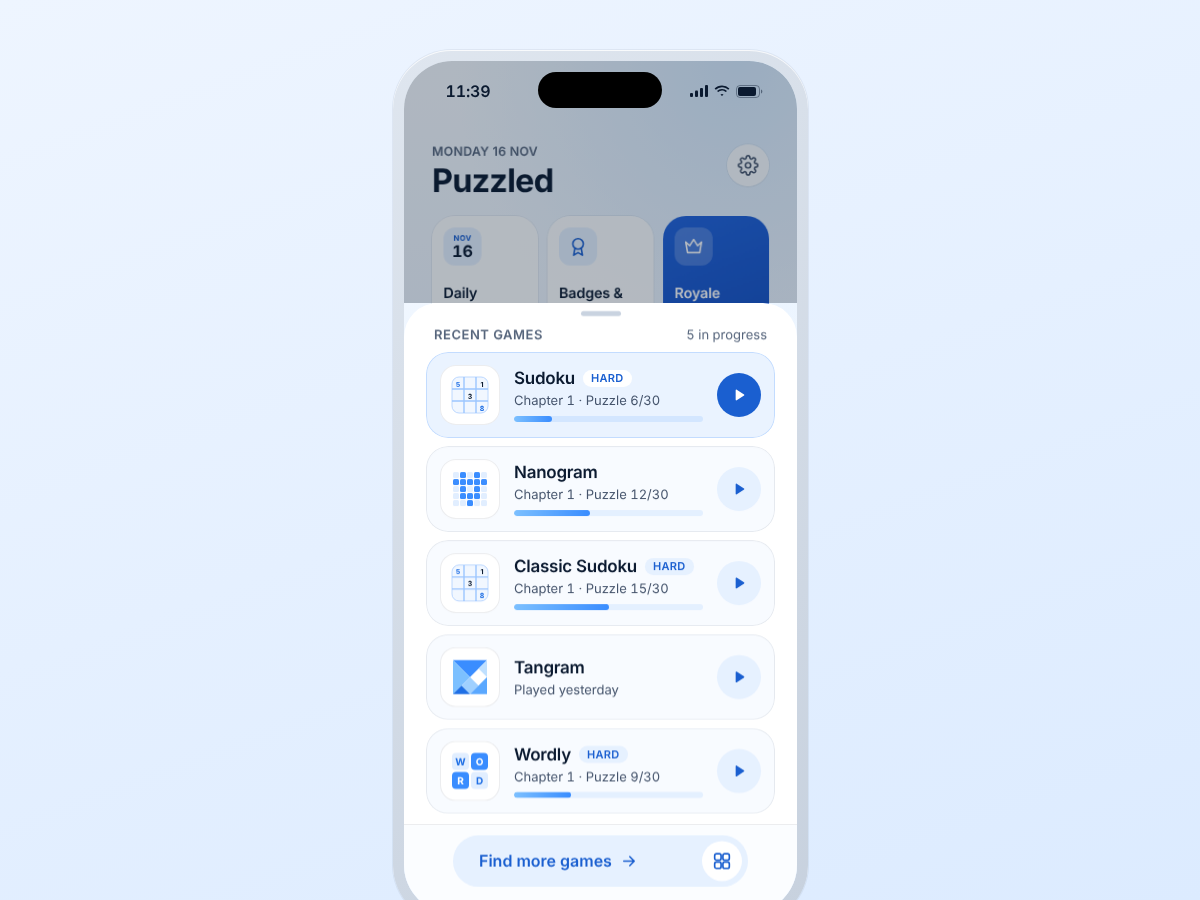
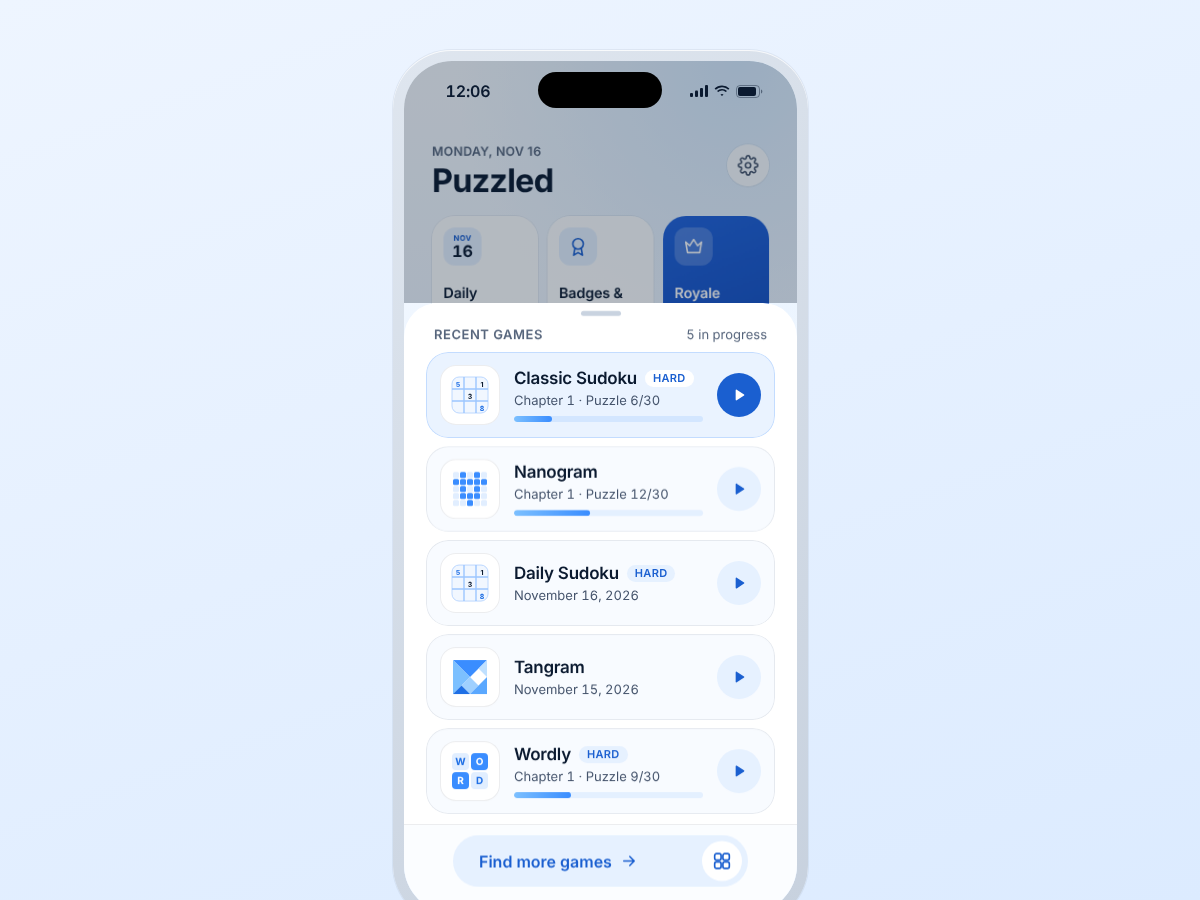
Next Games: close the gaps between the file, the prototype and the case
Prototype
- One naming scheme. The list had "Sudoku" and "Classic Sudoku" on the
  same chapter at two different puzzles; it is now Classic Sudoku and
  Daily Sudoku, as the file's card states name them.
- Dated rows show a date, as drawn, and every date follows today's in
  one format; the header no longer disagrees with the rows.
- The empty state from the file: with nothing in progress the card
  stays and reads "No games in progress yet", instead of leaving Home.

Case
- The Home figure gains the no-games card, so it runs 0, 1, 2, 4, 5.
- A new figure shows the card as drawn on game preselection, the puzzle
  end screen and the grouped Home list, which the case had left out.
- The flow's Back labels read as a direction.
- The case's cards use the prototype's artwork.

Site
- The sample-content notice and the project notes no longer say every
  project is a placeholder, now that Next Games is real.
- DESIGN.md records how a case study with figures is laid out.

Claude-Session: https://claude.ai/code/session_01XFxHD8w4HQtLUnRGHytL8t

diff --git a/public/prototypes/next-games/index.html b/public/prototypes/next-games/index.html
@@ -390,6 +390,29 @@
   .play:active, .play.tap { transform: scale(.88); }
   .row.hero .play { background: var(--blue-deep); color: #fff; }
 
+  /* Nothing in progress: the card stays and says so */
+  .none-yet {
+    position: absolute;
+    left: 22px; right: 22px;
+    height: 86px;
+    display: grid;
+    grid-template-columns: minmax(0, 1fr) 44px;
+    align-items: center;
+    gap: 14px;
+    padding: 0 14px 0 18px;
+    border-radius: 22px;
+    background-color: #f8fbff;
+    box-shadow: 0 0 0 1px var(--hairline) inset;
+    text-align: left;
+  }
+  .none-yet[hidden] { display: none; }
+  .none-yet:focus-visible { border-radius: 22px; }
+  .none-text { display: grid; gap: 4px; }
+  .none-text b { font: 600 17px/1.2 var(--font-display); letter-spacing: -0.015em; }
+  .none-text span { font: 600 13px/1.25 var(--font); color: var(--blue-deep); }
+  .none-go { width: 44px; height: 44px; border-radius: 50%; display: grid; place-items: center; background: var(--blue-soft); color: var(--blue-deep); transition: transform 200ms var(--ease-out); }
+  .none-yet:active .none-go { transform: scale(.88); }
+
   /* ---------- Tab bar ---------- */
   .tabbar {
     position: absolute; left: 0; right: 0; bottom: 0;
@@ -534,7 +557,7 @@
           <div class="home-content" id="homeContent">
             <div class="top">
               <div>
-                <p class="greet-date" id="today">Monday 16 Nov</p>
+                <p class="greet-date" id="today">Monday, Nov 16</p>
                 <p class="greet-title">Puzzled</p>
               </div>
               <button class="round-btn" type="button" aria-label="Settings">
@@ -585,6 +608,10 @@
             </div>
           </div>
           <div class="list" id="list" role="list"></div>
+          <button class="none-yet" id="noneYet" type="button" hidden>
+            <span class="none-text"><b>No games in progress yet</b><span>Find more games</span></span>
+            <span class="none-go" aria-hidden="true"><svg width="18" height="18" viewBox="0 0 24 24" fill="none" stroke="currentColor" stroke-width="2" stroke-linecap="round" stroke-linejoin="round"><path d="M5 12h14M13 6l6 6-6 6"/></svg></span>
+          </button>
         </section>
 
         <nav class="tabbar" id="tabbar" aria-label="Tabs">
@@ -653,20 +680,24 @@
   const $ = (s) => document.querySelector(s);
   const screen = $('#screen'), homeContent = $('#homeContent'), sheet = $('#sheet'), list = $('#list'),
         dim = $('#dim'), grab = $('#grab'), more = $('#more'), count = $('#count'), tabbar = $('#tabbar'), tabs = $('#tabs'),
-        titleClosed = $('#titleClosed'), titleOpen = $('#titleOpen'), island = $('#island');
+        titleClosed = $('#titleClosed'), titleOpen = $('#titleOpen'), island = $('#island'), noneYet = $('#noneYet');
   const clamp = (v, a = 0, b = 1) => Math.min(Math.max(v, a), b);
   const sleep = (ms) => new Promise((r) => setTimeout(r, reduce ? 0 : ms));
 
   // ---------- Data ----------
+  // As in the design file: chapter games show their puzzle and a chapter meter; the daily
+  // puzzle and a game with no chapter show a date. Dates follow today's, like the header.
+  const today = new Date();
+  const longDate = (d) => d.toLocaleDateString('en-US', { month: 'long', day: 'numeric', year: 'numeric' });
   const ALL = [
-    { id: 'sudoku', name: 'Sudoku', level: 'Hard', chapter: 1, puzzle: 6, of: 30, art: 'sudoku' },
+    { id: 'sudoku', name: 'Classic Sudoku', level: 'Hard', chapter: 1, puzzle: 6, of: 30, art: 'sudoku' },
     { id: 'nanogram', name: 'Nanogram', chapter: 1, puzzle: 12, of: 30, art: 'nano' },
-    { id: 'sudoku-classic', name: 'Classic Sudoku', level: 'Hard', chapter: 1, puzzle: 15, of: 30, art: 'sudoku' },
-    { id: 'tangram', name: 'Tangram', played: 'Yesterday', art: 'tangram' },
+    { id: 'sudoku-daily', name: 'Daily Sudoku', level: 'Hard', date: longDate(today), art: 'sudoku' },
+    { id: 'tangram', name: 'Tangram', date: longDate(new Date(today.getTime() - 864e5)), art: 'tangram' },
     { id: 'wordly', name: 'Wordly', level: 'Hard', chapter: 1, puzzle: 9, of: 30, art: 'word' },
   ];
   const hintFor = (n) =>
-    n === 0 ? 'Nothing in progress: the card leaves Home. Reset to bring the games back.'
+    n === 0 ? 'Nothing in progress: the card stays and says so, with a way to find more games.'
     : n === 1 ? 'One game: a single continue card. No handle, nothing to expand.'
     : n === 2 ? 'Two games: the sheet opens just tall enough for both, and the tab bar becomes Find more games.'
     : `${n === 5 ? 'All five' : n === 4 ? 'Four' : 'Three'} games: the sheet grows with the list and Home steps back behind it. Swipe a game left to remove it.`;
@@ -678,9 +709,8 @@
     word: `<svg width="38" height="38" viewBox="0 0 38 38" aria-hidden="true">${['W','O','R','D'].map((l, i) => `<rect x="${1 + (i%2)*19}" y="${1 + ((i/2)|0)*19}" width="17" height="17" rx="4" fill="${i===1||i===2 ? '#3a8dff' : '#e1eeff'}"/><text x="${9.5 + (i%2)*19}" y="${13.5 + ((i/2)|0)*19}" font-size="10" font-weight="700" text-anchor="middle" fill="${i===1||i===2 ? '#fff' : '#1f6fe5'}" font-family="-apple-system,Inter,sans-serif">${l}</text>`).join('')}</svg>`,
   };
 
-  $('#shelf').innerHTML = ['sudoku', 'nanogram', 'tangram', 'wordly']
-    .map((id) => ALL.find((g) => g.id === id))
-    .map((g) => `<button class="game" type="button"><span class="game-art">${art[g.art]}</span>${g.name}</button>`)
+  $('#shelf').innerHTML = [['Sudoku', 'sudoku'], ['Nanogram', 'nano'], ['Tangram', 'tangram'], ['Wordly', 'word']]
+    .map(([name, a]) => `<button class="game" type="button"><span class="game-art">${art[a]}</span>${name}</button>`)
     .join('');
 
   // ---------- Fit the device to its viewport ----------
@@ -727,13 +757,16 @@
   // Sizes are measured once per layout and the row list once per change, so a frame of
   // animation only writes styles and never forces layout.
   let M = { H: 0, grab: 0, tab: 0 }, rowCache = null;
-  const measure = () => { M = { H: sheet.offsetHeight, grab: grab.offsetHeight, tab: tabbar.offsetHeight }; };
+  const measure = () => {
+    M = { H: sheet.offsetHeight, grab: grab.offsetHeight, tab: tabbar.offsetHeight };
+    noneYet.style.top = M.grab + 'px';
+  };
   const rows = () => rowCache || (rowCache = [...list.querySelectorAll('.row:not(.gone)')]);
   const H = () => M.H;
   const TAB = () => M.tab;
   const cardH = () => M.grab + ROW + PAD;                 // the resting card: header and one game
   const restY = () => H() - (cardH() + LIFT + TAB());
-  const collapsedY = () => (games.length ? restY() : H());
+  const collapsedY = () => restY(); // with no games the card stays, showing its empty state
   const expandedY = () => {
     const n = games.length;
     if (n <= 1) return collapsedY();
@@ -801,7 +834,7 @@
   // ---------- Rows ----------
   function rowHTML(g) {
     const pct = g.of ? Math.round((g.puzzle / g.of) * 100) : 0;
-    const sub = g.of ? `Chapter ${g.chapter} · Puzzle ${g.puzzle}/${g.of}` : `Played ${g.played.toLowerCase()}`;
+    const sub = g.of ? `Chapter ${g.chapter} · Puzzle ${g.puzzle}/${g.of}` : g.date;
     return `
       <div class="row" role="listitem" data-id="${g.id}">
         <div class="card">
@@ -826,23 +859,27 @@
     const n = games.length;
     rows().forEach((r, i) => r.classList.toggle('hero', i === 0));
     sheet.classList.toggle('single', n <= 1);
-    grab.setAttribute('aria-label', n > 1 ? 'Show all recent games' : 'Continue playing');
+    grab.setAttribute('aria-label', n > 1 ? 'Show all recent games' : n ? 'Continue playing' : 'Recent games');
+    titleClosed.textContent = n ? 'Continue playing' : 'Recent games';
     if (n > 1) count.textContent = `${n} in progress`; // left as it was while it fades out
     $('#hint').textContent = hintFor(n);
   }
 
-  let buildId = 0;
+  let buildId = 0, built = false;
   // Swap in a fresh list: the old sheet drops away, the new one rises.
   async function build(n) {
     const id = ++buildId;
-    if (list.childElementCount && y < H()) {
+    if (built && y < H()) {
       stop();
       expanded = false;
       dim.classList.remove('live');
       await new Promise((res) => { stop = spring(y, H(), 0, render, res, 520, 44); });
       if (id !== buildId) return;
     }
+    built = true;
     games = ALL.slice(0, n);
+    noneYet.hidden = n > 0;
+    noneYet.style.opacity = '';
     list.innerHTML = games.map(rowHTML).join('');
     rowCache = null;
     measure();
@@ -893,13 +930,20 @@
       card.style.transition = 'transform 300ms cubic-bezier(.4, 0, .9, .5)';
       card.style.transform = 'translate3d(-110%, 0, 0)';
     }
+    // The last game does not close up: the empty card fades in where it was
+    const last = games.length === 0;
+    if (last) { noneYet.hidden = false; noneYet.style.opacity = '0'; }
     let done = false;
     settle(expanded, 0, (u) => {
-      row.style.height = `${h0 * (1 - u)}px`;
-      row.style.marginBottom = `${GAP * (1 - u)}px`;
+      if (last) noneYet.style.opacity = clamp((u - 0.25) / 0.6);
+      else {
+        row.style.height = `${h0 * (1 - u)}px`;
+        row.style.marginBottom = `${GAP * (1 - u)}px`;
+      }
       row.style.opacity = o0 * clamp(1 - u * 1.6);
       done = u === 1;
     }).then(() => {
+      if (last) noneYet.style.opacity = '';
       if (done || reduce) return row.remove();
       // Interrupted part-way (another drag or removal): close what is left quickly
       row.style.transition = 'height 160ms ease-out, margin 160ms ease-out, opacity 120ms';
@@ -913,7 +957,7 @@
   // A vertical drag moves the sheet; a horizontal drag on a game swipes it.
   let g = null;
   sheet.addEventListener('pointerdown', (e) => {
-    if (e.button || e.target.closest('.play, .delete, .more')) return;
+    if (e.button || e.target.closest('.play, .delete, .none-yet')) return;
     g = { id: e.pointerId, x0: e.clientX, y0: e.clientY, s0: y, lock: null, v: 0, t: performance.now(), last: e.clientY,
           row: e.target.closest('.row'), grab: !!e.target.closest('.grab') };
     if (g.row) g.base = g.row._dx;
@@ -1033,10 +1077,9 @@
   $('#reset').addEventListener('click', () => pick(5));
 
   // ---------- Live details ----------
-  const now = new Date();
-  $('#today').textContent = now.toLocaleDateString('en-GB', { weekday: 'long', day: 'numeric', month: 'short' });
-  $('#calMonth').textContent = now.toLocaleDateString('en-GB', { month: 'short' });
-  $('#calDay').textContent = now.getDate();
+  $('#today').textContent = today.toLocaleDateString('en-US', { weekday: 'long', month: 'short', day: 'numeric' });
+  $('#calMonth').textContent = today.toLocaleDateString('en-US', { month: 'short' });
+  $('#calDay').textContent = today.getDate();
   const eventEnd = Date.now() + ((9 * 24 + 7) * 60 + 12) * 60000;
   const tick = () => {
     const m = Math.max(0, Math.floor((eventEnd - Date.now()) / 60000));

diff --git a/src/data/projects.ts b/src/data/projects.ts
@@ -1,8 +1,9 @@
 /**
  * Every project on the site comes from this list.
  *
- * ALL ENTRIES BELOW ARE SAMPLE CONTENT. Titles, clients, years and text are
- * invented placeholders that show how the layout behaves with ~30 projects.
+ * Next Games is a real project. EVERY OTHER ENTRY IS SAMPLE CONTENT: titles,
+ * clients, years and text are invented placeholders that show how the layout
+ * behaves with ~30 projects.
  * Replace them with your own work, then set `showSampleNotice` to false in
  * src/data/site.ts.
  *

diff --git a/DESIGN.md b/DESIGN.md
@@ -199,6 +199,7 @@ A centred container (max 1320px) with a fluid gutter of clamp(16px, 4vw, 56px). 
 - **Work index:** 4 columns, stepping to 3 under 1180px and 2 under 860px. Two full rows sit above the fold at 1440x900. Under 560px tiles tighten (5px inset, 20px radius) and the filter chips become a single horizontally scrolling row that bleeds to the screen edge.
 - **Home featured grid:** 12-column; the two newest projects span 6, the rest span 4, and a dark "view all" tile spans 8, holding a 6-column contact sheet of thumbnails and the total count.
 - **Case study:** a 1.7fr / 1fr intro (headline left, facts list right), a full-width 16:9 hero, story sections in a 1fr / 2fr label-and-text split, a 2-column gallery, a 2-column previous/next pager and a 3-column related row; all collapse to one column on small screens.
+- **Case study with figures (Next Games):** each section keeps the 1fr / 2fr head (title left, text right) and follows it with full-width figures. A figure is a white tile (28px, 8px inset) holding a 20px frame in the project's own colour; project UI and its colours stay inside that frame, and the chrome around it (captions, rules, status marks, the flow diagram) stays neutral. Lists that are not imagery (stories, drivers, questions) are hairline-ruled rows, not tiles. Figures animate only while on screen, on the one ease-out curve, and hold a complete state under reduced motion.
 - **Vertical rhythm:** sections are separated by clamp(96px, 11vw, 152px); the contact block and footer get slightly more (up to 176px and 160px).
 - **Header:** sticky, 72px tall (64px under 720px); labels for search and contact collapse to 44px icon buttons on small screens.
 - **Touch targets:** every control is at least 44px tall.

diff --git a/PRODUCT.md b/PRODUCT.md
@@ -42,7 +42,7 @@ Undecided: the owner's name, specialism and positioning have not been given yet.
 
 ## Evidence on Hand
 
-None yet. No real projects, images, testimonials, clients or metrics exist in the repo. Every project, cover image and description currently in the site is a labelled placeholder. Never add testimonials, client logos, awards or numbers until the owner supplies them.
+One real project: Next Games (puzzle cards on the Home screen of a puzzle games app, 2023). Its case study uses only what the owner's design file contains: the feature overview, UX drivers, player stories and their status, the navigation flow, the card states, and the open questions; its prototype is built to that file's measurements. The live event is named "Royale" in place of the brand name used in the file. Every other project, cover image and description in the site is a labelled placeholder. Never add testimonials, client logos, awards or numbers until the owner supplies them.
 
 ## Product Principles
 
